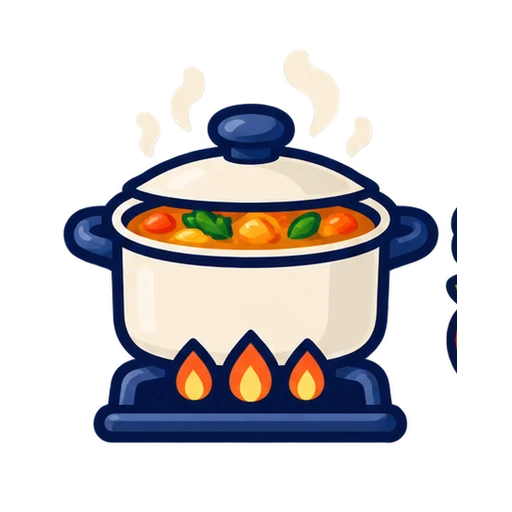
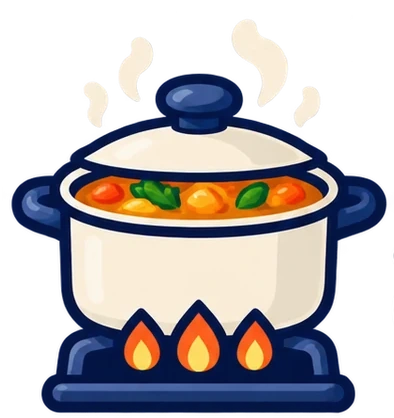
Publicar web: landing con Nosotros e imágenes nuevas

diff --git a/flutter_service_worker.js b/flutter_service_worker.js
@@ -3,9 +3,9 @@ const MANIFEST = 'flutter-app-manifest';
 const TEMP = 'flutter-temp-cache';
 const CACHE_NAME = 'flutter-app-cache';
 
-const RESOURCES = {"assets/AssetManifest.bin": "bd2011733d6aa35ebcd0d0e1f8a7647f",
-"assets/AssetManifest.bin.json": "f5f796dd68061e0e8bd851eae88a5219",
-"assets/AssetManifest.json": "62679073510c2e0fd27028ad964aaf28",
+const RESOURCES = {"assets/AssetManifest.bin": "b0758ce5dd5ff342654662c8d53b22d9",
+"assets/AssetManifest.bin.json": "f4b385cc2252d763950e2298c9839161",
+"assets/AssetManifest.json": "ab5a800cee58f3671a67caf37987d9cb",
 "assets/assets/docs/preguntas_frecuentes.pdf": "08c5a1a1d7bf8ad294ed0a4dd4c33b33",
 "assets/assets/fonts/OpenSans-Bold.ttf": "0a191f83602623628320f3d3c667a276",
 "assets/assets/fonts/OpenSans-Regular.ttf": "931aebd37b54b3e5df2fedfce1432d52",
@@ -48,7 +48,8 @@ const RESOURCES = {"assets/AssetManifest.bin": "bd2011733d6aa35ebcd0d0e1f8a7647f
 "assets/assets/images/POLLO_icono.png": "42b98b8a45ddc97ca4d50ab1f5a15196",
 "assets/assets/images/product_placeholder.png": "e593005709351bf9899a0326c0ab1817",
 "assets/assets/images/QUESOS_icono.png": "94fb2de92b45677d9ccdb0185f35c3c1",
-"assets/assets/images/recetasimagen.webp": "27110cee740f447ea3a4407d3a7983bc",
+"assets/assets/images/recetasimagen.webp": "86ae4ce803ebbd3c269e9b62b6d9b7f3",
+"assets/assets/images/recetasimagen_.webp": "27110cee740f447ea3a4407d3a7983bc",
 "assets/assets/images/RES_icono.png": "e84dddb6fcaa73fe9f473dc4ee39cfb4",
 "assets/assets/images/VERDURAS_icono.png": "403b94d6b7ad6f50ae776a3c6af51f02",
 "assets/FontManifest.json": "00ca8921ad3fd1050db0c4dceb0c39e4",
@@ -82,13 +83,13 @@ const RESOURCES = {"assets/AssetManifest.bin": "bd2011733d6aa35ebcd0d0e1f8a7647f
 "favicon.png": "39d276a12cbc8222d7ff1d1ad3eafe39",
 "favicon2.png": "5dcef449791fa27946b3d35ad8803796",
 "flutter.js": "83d881c1dbb6d6bcd6b42e274605b69c",
-"flutter_bootstrap.js": "f1d1599a4a01f657f3280915b76c701a",
+"flutter_bootstrap.js": "1b3931312a9806023f598e7b859d9f05",
 "icons/Icon-192.png": "007e3303ef7f05132c099e8ea74ddc06",
 "icons/Icon-512.png": "4b2fcf0ed3cda89cf0260aa2e96cb135",
 "icons/Icon-maskable-192.png": "007e3303ef7f05132c099e8ea74ddc06",
 "icons/Icon-maskable-512.png": "4b2fcf0ed3cda89cf0260aa2e96cb135",
-"index.html": "5aa241502c0db0777446d534e6676110",
-"/": "5aa241502c0db0777446d534e6676110",
+"index.html": "7fe63892fe801efd6bddeaa4d027030d",
+"/": "7fe63892fe801efd6bddeaa4d027030d",
 "landing/img/01_bienvenida.webp": "2d3ce2a88375f74ef75fc09048f4d058",
 "landing/img/02_inicio.webp": "85534c8ab5a180ae47fd18fe0736ac62",
 "landing/img/03_productos.webp": "b44fe0f134e4bdab830e4559e48acc72",
@@ -122,9 +123,9 @@ const RESOURCES = {"assets/AssetManifest.bin": "bd2011733d6aa35ebcd0d0e1f8a7647f
 "landing/img/hero_1.webp": "cdf7ba68c74d10820fd07891e1095aa2",
 "landing/img/logo-blanco.webp": "6c49f749904c90fcc55952841a3d18c7",
 "landing/img/logo-color.webp": "9b61d8e233f6fd8115a4d56e21640b02",
-"landing/img/olla.webp": "ee16e8510a37c83a49040bd98a831348",
+"landing/img/olla.webp": "9ccbdf9f68ce777a33e225ef46ed25a1",
 "landing/img/paquetes_header.webp": "8e476b4d7b0b62a53556fbf913251beb",
-"landing/img/recetasimagen.webp": "22da1ebab29b8e2c1a6a8dffa5ae52cf",
+"landing/img/recetasimagen.webp": "f79c20d531731531ac149150901eca91",
 "main.dart.js": "bd877e47e074c704a2e88a83d1a7b573",
 "manifest.json": "6a6944f12b2fa60a701712dc684f5b50",
 "terminos.html": "4365adc362c4e36033b90f4a473c5a3c",

diff --git a/index.html b/index.html
@@ -159,7 +159,7 @@
       // Download main.dart.js
       _flutter.loader.loadEntrypoint({
         serviceWorker: {
-          serviceWorkerVersion: "2506523406",
+          serviceWorkerVersion: "1007499949",
         },
         onEntrypointLoaded: function(engineInitializer) {
           engineInitializer.initializeEngine().then(function(appRunner) {
@@ -208,7 +208,7 @@
     // al volver a la app se compara la versión de esta página con la
     // publicada; si cambió, se ofrece actualizar con un toque.
     (function () {
-      var current = "2506523406";
+      var current = "1007499949";
       if (!current || !('fetch' in window)) return;
       var shown = false;
 

diff --git a/flutter_bootstrap.js b/flutter_bootstrap.js
@@ -39,6 +39,6 @@ _flutter.buildConfig = {"engineRevision":"72f2b18bb094f92f62a3113a8075240ebb59af
 
 _flutter.loader.load({
   serviceWorkerSettings: {
-    serviceWorkerVersion: "2506523406"
+    serviceWorkerVersion: "1007499949"
   }
 });
